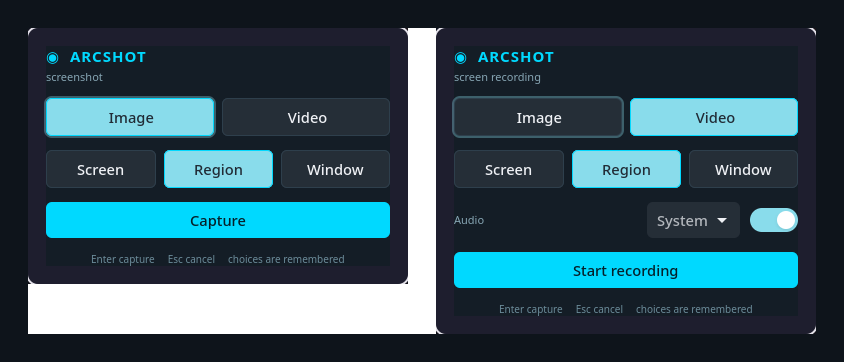
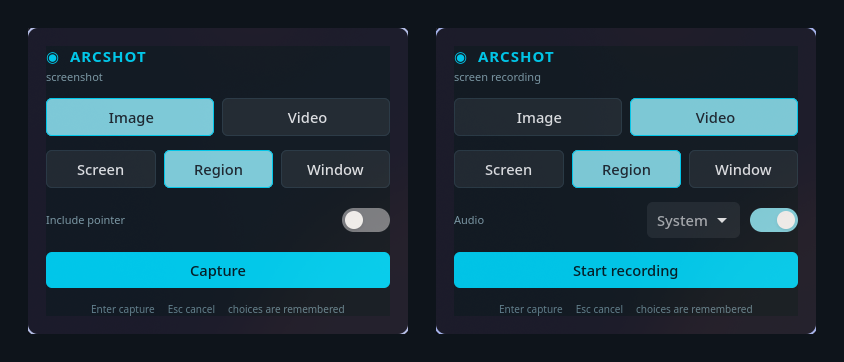
Add pointer toggle; close chooser before capture

diff --git a/src/arcshot/ui.py b/src/arcshot/ui.py
@@ -58,6 +58,7 @@ class Window(Adw.ApplicationWindow):
     def __init__(self, app, cfg):
         super().__init__(application=app, title="arcshot")
         self.cfg = cfg
+        self._held = False
         self.set_default_size(380, -1)
         self.set_resizable(False)
 
@@ -77,6 +78,16 @@ class Window(Adw.ApplicationWindow):
                          cfg["mode"], self._set_mode))
         root.append(_seg([("screen", "Screen"), ("region", "Region"),
                           ("window", "Window")], cfg["area"], self._set_area))
+
+        # pointer row - screenshots only (wf-recorder always draws the cursor)
+        self.cursor_box = Gtk.Box(orientation=Gtk.Orientation.HORIZONTAL, spacing=10)
+        cl = Gtk.Label(label="Include pointer", xalign=0)
+        cl.add_css_class("arc-sub"); cl.set_hexpand(True)
+        self.cursor_sw = Gtk.Switch(active=cfg.get("cursor", False),
+                                    valign=Gtk.Align.CENTER)
+        self.cursor_sw.connect("notify::active", self._set_cursor)
+        self.cursor_box.append(cl); self.cursor_box.append(self.cursor_sw)
+        root.append(self.cursor_box)
 
         # audio row - only meaningful while recording
         self.audio_box = Gtk.Box(orientation=Gtk.Orientation.HORIZONTAL, spacing=10)
@@ -114,14 +125,23 @@ class Window(Adw.ApplicationWindow):
     def _set_mode(self, k): self.cfg["mode"] = k; self._sync()
     def _set_area(self, k): self.cfg["area"] = k; self._sync()
     def _set_audio(self, sw, _): self.cfg["audio"] = sw.get_active()
+    def _set_cursor(self, sw, _): self.cfg["cursor"] = sw.get_active()
     def _set_audio_src(self, dd, _):
         self.cfg["audio_source"] = "system" if dd.get_selected() == 0 else "mic"
 
     def _sync(self):
         video = self.cfg["mode"] == "video"
         self.audio_box.set_visible(video)
+        self.cursor_box.set_visible(not video)
         self.go.set_label("Start recording" if video else "Capture")
         self.sub.set_label("screen recording" if video else "screenshot")
+
+    def _finish(self):
+        app = self.get_application()
+        if getattr(self, "_held", False):
+            self._held = False
+            app.release()
+        app.quit()
 
     def _key(self, _c, keyval, *_a):
         if keyval == Gdk.KEY_Escape:
@@ -133,16 +153,23 @@ class Window(Adw.ApplicationWindow):
     # ----------------------------------------------------------- action
     def _go(self):
         config.save(self.cfg)
-        self.set_visible(False)
-        # let the compositor actually drop the window before we grab anything
-        GLib.timeout_add(180, self._run)
+        # Hold the application so it survives the window going away, then
+        # actually CLOSE the window rather than just hiding it -- a hidden
+        # surface can still linger for a frame, and it looked like the dialog
+        # was hanging around during region select.
+        app = self.get_application()
+        app.hold()
+        self._held = True
+        self.close()
+        # give the compositor a frame or two to drop the surface for real
+        GLib.timeout_add(160, self._run)
 
     def _run(self):
         cfg = self.cfg
         try:
             geom, cancelled = capture.resolve_geometry(cfg["area"])
             if cancelled:
-                self.get_application().quit()
+                self._finish()
                 return False
 
             if cfg["mode"] == "image":
@@ -158,7 +185,7 @@ class Window(Adw.ApplicationWindow):
         except capture.CaptureError as exc:
             capture.notify("arcshot failed", str(exc),
                            icon="dialog-error", urgent=True)
-        self.get_application().quit()
+        self._finish()
         return False
 
 

diff --git a/src/arcshot/capture.py b/src/arcshot/capture.py
@@ -97,6 +97,8 @@ def take_screenshot(cfg, geometry):
     path = os.path.join(cfg["image_dir"], f"arcshot_{_stamp()}.png")
 
     cmd = ["grim"]
+    if cfg.get("cursor"):
+        cmd.append("-c")
     if geometry:
         cmd += ["-g", geometry]
     cmd.append(path)
@@ -148,6 +150,9 @@ def is_recording():
 
 
 def start_recording(cfg, geometry):
+    # NOTE: wf-recorder has no cursor switch -- it always draws the pointer.
+    # The cursor setting therefore applies to screenshots only, and the UI
+    # hides it in video mode rather than pretending it does something.
     _require("wf-recorder")
     if is_recording():
         raise CaptureError("already recording")

diff --git a/src/arcshot/config.py b/src/arcshot/config.py
@@ -11,6 +11,7 @@ DEFAULTS = {
     "area": "region",       # screen | region | window
     "audio": False,
     "audio_source": "system",   # system | mic
+    "cursor": False,            # include the pointer (screenshots only)
     "copy_to_clipboard": True,
     "open_editor": False,
     "image_dir": "",        # blank -> XDG Pictures/Screenshots

diff --git a/README.md b/README.md
@@ -17,6 +17,7 @@ It is the GNOME screenshot flow, on Wayland, without GNOME.
   a tray icon.
 - **Image or video**, **whole screen / region / window**, and for video,
   **audio on or off** with a system-or-microphone source.
+- **Include the pointer or not** on screenshots.
 - **Remembers your last choice**, so the common case is press-key, press-Enter.
 - Screenshots land on the **clipboard** as well as on disk.
 - Optional hand-off to **swappy** for annotation.
@@ -91,6 +92,7 @@ module:
   "area": "region",
   "audio": false,
   "audio_source": "system",
+  "cursor": false,
   "copy_to_clipboard": true,
   "open_editor": false,
   "image_dir": "",
@@ -117,12 +119,32 @@ current workspace and feeds those rectangles to `slurp -r`, so you click a
 window rather than dragging a box around it. On a compositor without `hyprctl`
 it falls back to region select.
 
-**The window hides before capturing.** There's a short delay after hiding so the
-compositor has actually dropped it — otherwise the chooser ends up in your
-screenshot.
+**The window is closed, not hidden, before capturing.** The application is held
+open with `Gtk.Application.hold()` so it survives its own window going away.
+Merely hiding the surface left it visible for a frame or two, which looked like
+the dialog lingering during region select.
+
+**Placement is left to the compositor.** Wayland clients cannot position
+themselves, so put it where you want with a rule. For bottom-centre in
+Hyprland:
+
+```
+windowrule {
+    match:class = (dev.arcshot.Arcshot)
+    float = true
+    move = 744 674
+}
+```
+
+Note that in Hyprland 0.56's keyed rule syntax a percentage `move` silently
+ignores the Y component, and the `50%-190` arithmetic form only applies X —
+absolute pixels apply on both axes.
 
 ## Limitations
 
+- **The pointer toggle applies to screenshots only.** `wf-recorder` has no
+  cursor switch — it always draws the pointer — so the UI hides that row in
+  video mode rather than offering a control that does nothing.
 - Region and window select need `slurp`, so this is wlroots-only. It will not
   work on GNOME's Mutter or on KDE.
 - `wf-recorder` records one output at a time; multi-monitor capture into a
